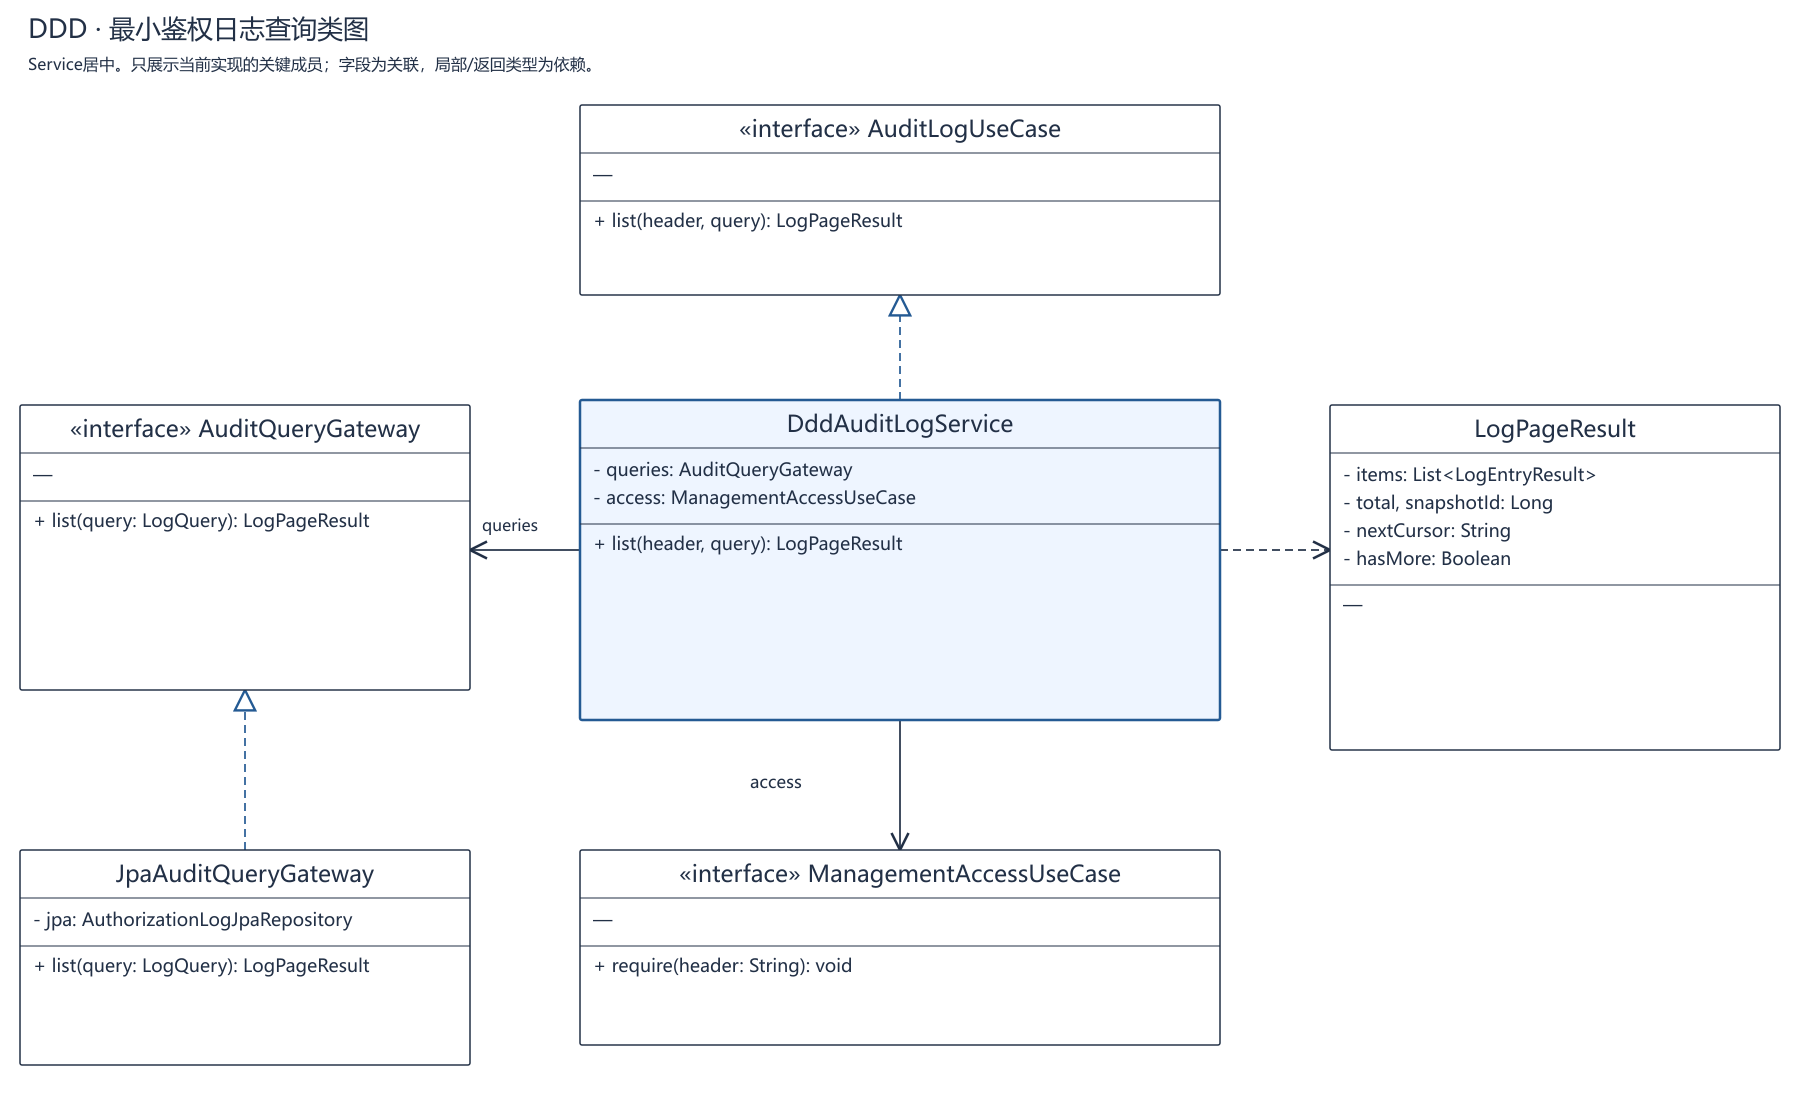
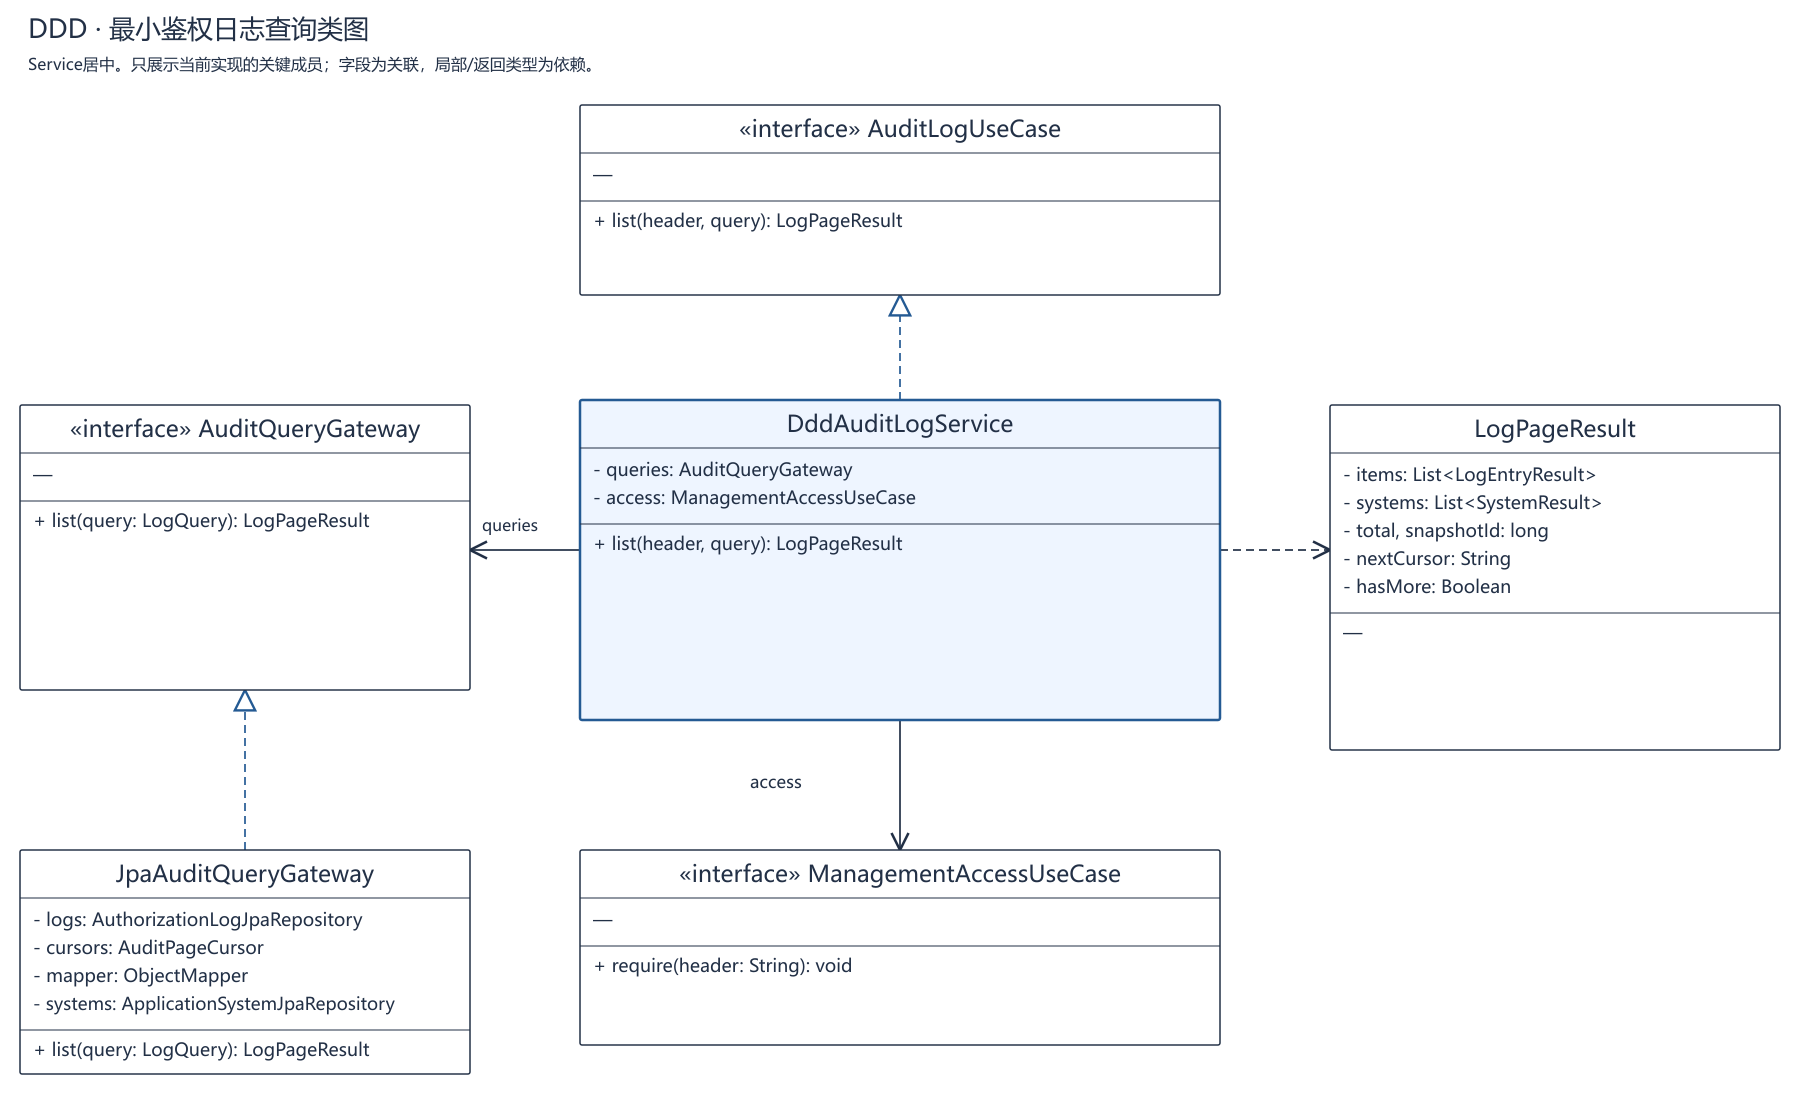
fix: separate health probes from identity auditing and correct UML sources

Changed region(s): [[0.0, 0.8125, 0.2462, 0.9688], [0.7385, 0.4375, 0.8615, 0.5312]]

diff --git a/integrations/course/deployment_gateway.py b/integrations/course/deployment_gateway.py
@@ -20,19 +20,21 @@ LOGGER = logging.getLogger('course.integration')
 class Gateway:
     """WSGI处理器由Waitress提供有界HTTP运行器，不启动本地实验HTTPServer。"""
 
-    def __init__(self, upstream, store, catalog, origins=()):
+    def __init__(self, upstream, store, catalog, origins=(), health_probe=None):
         self.upstream = upstream
         self.store = store
         self.catalog = catalog
         self.system = catalog['system']
         self.origins = set(origins)
+        self.health_probe = health_probe
 
     def dispatch(self, method, path, query, token, body):
         """逐次读取真实RBAC授权，拒绝跨应用及未声明路由；不使用mock或授权缓存。"""
         if method == 'GET' and path == '/healthz':
             self.store.ping()
-            status, _ = self.upstream('/auth/me')
-            return (200, {'status': 'UP'}) if status == 401 else (503, {'status': 'DOWN'})
+            status, result = self.health_probe() if self.health_probe else (503, {})
+            healthy = status == 200 and isinstance(result, dict) and result.get('status') == 'UP'
+            return (200, {'status': 'UP'}) if healthy else (503, {'status': 'DOWN'})
         audit = path == '/auth/audit-logs'
         allowed = ((method == 'POST' and path in ('/auth/login', '/auth/logout'))
                    or (method == 'GET' and (path in ('/auth/me', '/auth/departments')
@@ -139,4 +141,8 @@ def create_app():
     def upstream(path, method='GET', token=None, body=None):
         """请求真实RBAC，不记录请求或响应内容。"""
         return exchange(base, path, method, token, body)
-    return Gateway(upstream, store, catalog, os.environ['ALLOWED_ORIGINS'].split(','))
+    health_base = os.environ['RBAC_HEALTH_BASE_URL'].rstrip('/')
+    def health_probe():
+        """内部运维端口的健康检查不进入登录或鉴权事件采集。"""
+        return exchange(health_base, '/actuator/health')
+    return Gateway(upstream, store, catalog, os.environ['ALLOWED_ORIGINS'].split(','), health_probe)

diff --git a/scripts/tests/test_deployment_gateway.py b/scripts/tests/test_deployment_gateway.py
@@ -95,6 +95,27 @@ class GatewayTest(unittest.TestCase):
         self.assertEqual(400, self.request('/auth/login', 'POST', raw=b'{broken')['status'])
         self.assertEqual(404, self.request('/api/users')['status'])
 
+    def test_R16_health_uses_operational_probe_without_anonymous_identity_requests(self):
+        """存活探测只读运维健康状态，不制造未识别主体的鉴权失败。"""
+        class Store:
+            """只记录健康调用，业务审计接口不参与本测试。"""
+            def ping(self):
+                return None
+        self.app.store = Store()
+        probes = []
+        def health():
+            probes.append(True)
+            return 200, {'status': 'UP'}
+        self.app.health_probe = health
+        for _ in range(3):
+            self.assertEqual(200, self.request('/healthz', token=None)['status'])
+        self.assertEqual(3, len(probes))
+        self.assertEqual([], self.calls)
+        self.app.health_probe = lambda: (503, {'status': 'DOWN'})
+        self.assertEqual(503, self.request('/healthz', token=None)['status'])
+        self.app.health_probe = lambda: (200, {'status': 'DOWN'})
+        self.assertEqual(503, self.request('/healthz', token=None)['status'])
+
 
 @unittest.skipUnless(os.environ.get('DEPLOY_TEST_DB_FILE'), '需要本轮隔离MySQL配置')
 class MysqlAuditTest(unittest.TestCase):

diff --git a/deploy/README.md b/deploy/README.md
@@ -28,6 +28,8 @@
 
 [deployment_gateway.py](../integrations/course/deployment_gateway.py)由Waitress运行，身份八项实时访问真实RBAC、校验配置短码所需路由全集、不缓存授权。业务审计两项独立写course_audit；course_context账号只读课程归属。审计不是RBAC八项身份协议的一部分，也不写RBAC鉴权日志。读取仍要求AV全局权限，未扩展普通教师的对象日志范围。PyMySQL包含RSA依赖以支持MySQL8.4首次caching_sha2_password认证；不依赖认证缓存。
 
+接入服务`/healthz`检查审计数据库连通性及`RBAC_HEALTH_BASE_URL`指定的内网`/actuator/health`。运维探测不调用身份接口，避免无令牌的健康检查反复产生匿名401鉴权日志；未配置探针、依赖异常或健康状态非UP均返回503。业务身份和权限请求仍逐次访问RBAC并正常留痕。
+
 课程文件实际存于file_object.content的MySQL LONGBLOB中，随数据库备份，不虚设未被代码使用的上传目录。默认不新建MongoDB、Redis或Elasticsearch。
 
 ## 3. 准备发布材料（本机）
@@ -137,4 +139,4 @@ Pop-Location
 确认安装BUILD SUCCESS且提交完全一致，再构建本工程。完整功能回归需先准备对应隔离MySQL专库，见[后端回归配置](../backend/README.md#2-本地回归与隔离)；只打包时可以显式跳过测试，但不得把该构建结果表述为回归通过。首次依赖下载需要Gitee/Maven网络。密码、token、生成报告和老师源码留在忽略目录，不提交Git。
 
 
-本机组织账号导入、五角色预检/首次授权及默认JAR仍按[后端说明](../backend/README.md#3-新项目本地初始化与运行)和[复现指南](../docs/reproduction.md)执行。默认初始化仅登记RBAC；课程配置独立显式接入，不由产品启动自动触发。详设Word/PDF/PPT及老师原目录保持原版。
+本机组织账号导入、五角色预检/首次授权及默认JAR仍按[后端说明](../backend/README.md#3-新项目本地初始化与运行)和[复现指南](../docs/reproduction.md)执行。默认初始化仅登记RBAC；课程配置独立显式接入，不由产品启动自动触发。用户桌面设计交付与实际发布资料按明确修订任务同步；老师原目录保持不变。

diff --git a/docs/api-contract.md b/docs/api-contract.md
@@ -67,6 +67,8 @@ LogPageVO.systems提供日志筛选所需全部已登记应用（id/code/name/en
 
 LOGIN_SUCCESS/LOGIN_FAILED表示RBAC凭据及应用准入结果，不证明课程Teacher/Student绑定或业务登录已成功。实际调用的短码与operationId权限查询以PERMISSION_CHECK留痕，每个查询一次，allowed为真实真假结果；false仍可HTTP200，reason=PERMISSION_NOT_GRANTED，不是一次课程业务HTTP403。AUTHORIZATION继续表示RBAC实际执行的门禁。课程使用/auth/me取权限后自行执行的对象判定和业务结果留在课程日志，RBAC不伪造自己未收到的功能执行记录。
 
+未携带或无法核实令牌的真实身份请求保留UNAUTHENTICATED记录，主体可空。运维健康检查使用内网Actuator，不使用匿名身份请求；已有探测噪声作为原始历史保留，不能通过批量删除日志或屏蔽全部401解决。
+
 首次snapshotId为当前最大日志ID，选id≤snapshotId，后续按id<上页末条降序；total为同一快照筛选总数，不随翻页缩小或读取产生的新技术记录增长。筛选/limit绑定游标，改变后清cursor；损坏/伪造/不一致400 INVALID_CURSOR。from含、to不含，必须UTC Z格式且from<to；到底nextCursor=null、hasMore=false。
 
 页面显示和筛选输入按北京时间处理，前端转换后仍提交上述UTC边界；接口occurredAt继续返回UTC ISO-8601，不因展示时区修改数据库时间、Instant时钟或JWT时效。展示修正的本机结果及待发布状态见[验证记录](history/verification/beijing-time-and-service-cleanup.md)。
